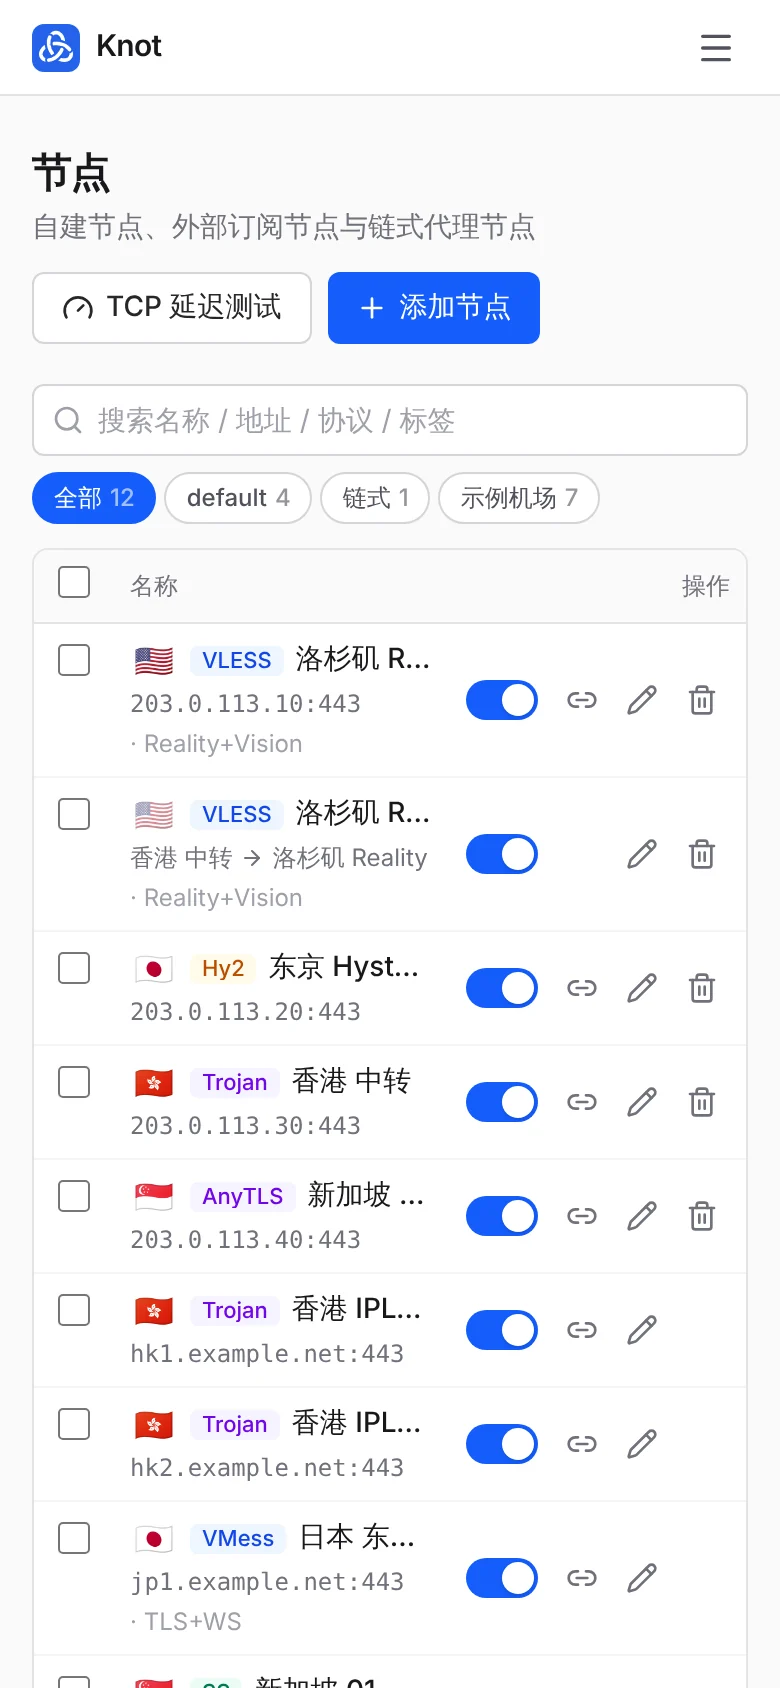
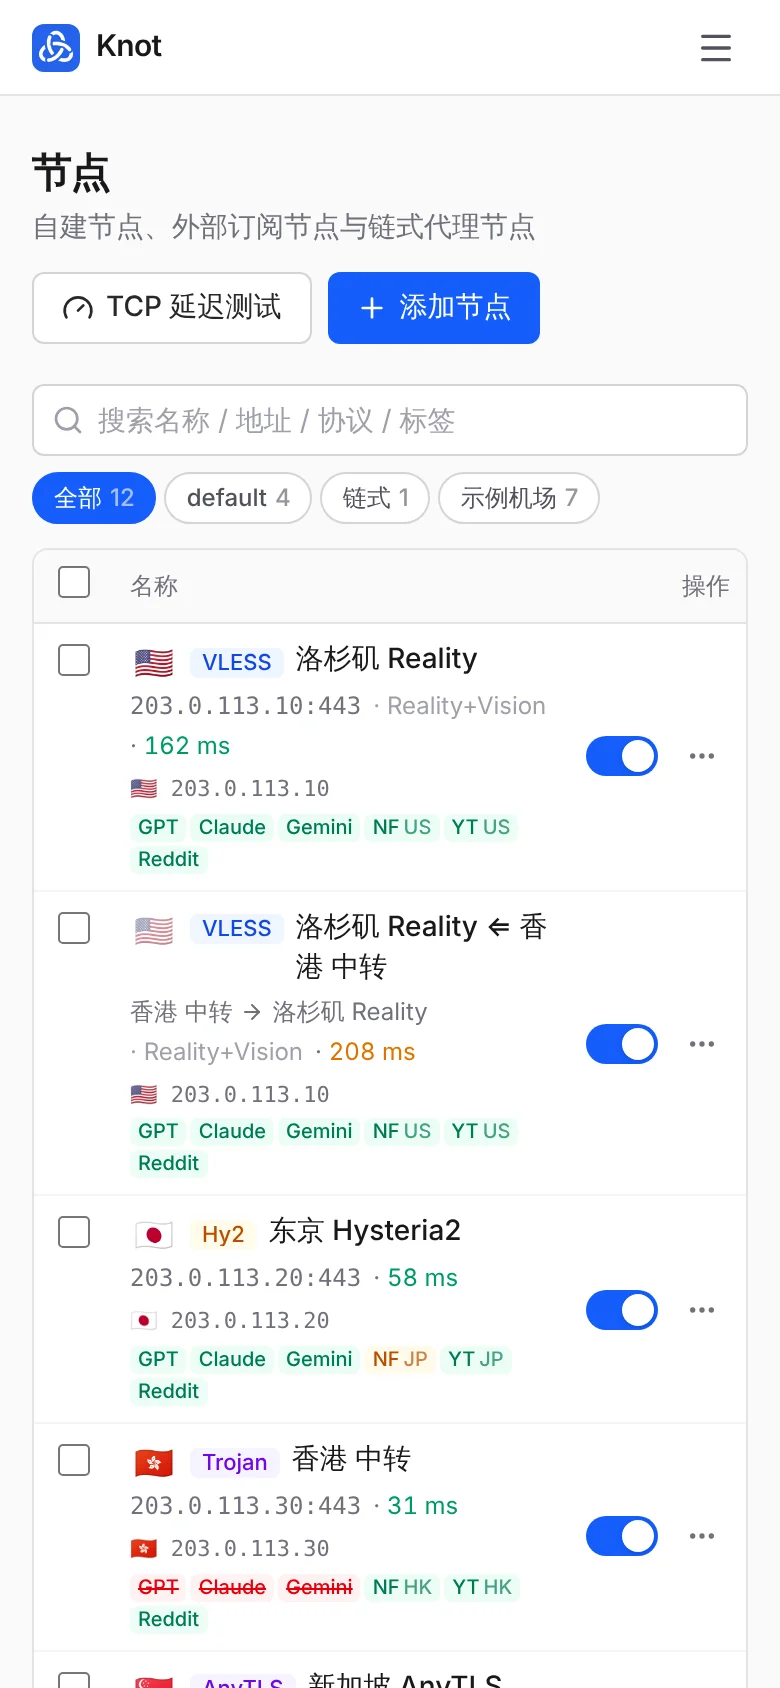
Nodes list: show unlock results at every width, wrap long names, fold actions into a menu
- Below xl the exit / unlock column was hidden, so check results never
  appeared on narrower windows or phones; they now render under the name
- On phones latency moves into the name cell as well
- Long node names wrap to two lines instead of being cut off early
- Copy link, QR code, temporary share, flag and delete move into a "more"
  menu; desktop keeps the switch, chain and edit buttons, phones keep the switch
- Add a portal-based Menu component; IconButton forwards refs

diff --git a/web/src/pages/Nodes.tsx b/web/src/pages/Nodes.tsx
@@ -17,6 +17,7 @@ import {
   Field,
   IconButton,
   Input,
+  Menu,
   Modal,
   PageHeader,
   Select,
@@ -484,51 +485,71 @@ function NodeRow({
   const broken = chain && (!target || !relay)
   const p = target?.proxy || n.proxy
   const tr = transportOf(target || n)
+  const latency =
+    UDP_TYPES.has((relay || n).proxy.type) && n.latency === undefined ? <span className="text-zinc-400" title="UDP 协议需要 mihomo 内核测速">UDP</span> : <Latency n={n} />
   return (
     <tr className={cx('border-b border-zinc-100 last:border-0 hover:bg-zinc-50/70 dark:border-zinc-800/70 dark:hover:bg-zinc-800/30', !n.enabled && 'opacity-50')}>
       <td className="px-3 py-2.5 align-top"><Checkbox checked={checked} onChange={onCheck} /></td>
       <td className="w-full max-w-0 px-2 py-2">
-        <div className="flex min-w-0 items-center gap-1.5">
-          <FlagButton own={n.flag} inherited={target?.flag} onClick={onFlag} />
-          <TypeBadge type={p.type} />
-          <span className="truncate font-medium" title={n.name}>{n.name}</span>
-          {broken && <Badge color="red">失效</Badge>}
+        <div className="flex min-w-0 items-start gap-1.5">
+          <span className="flex shrink-0 items-center gap-1.5 pt-px">
+            <FlagButton own={n.flag} inherited={target?.flag} onClick={onFlag} />
+            <TypeBadge type={p.type} />
+          </span>
+          {/* 名称最多两行，过长再省略；完整名称见悬停提示 */}
+          <span className="line-clamp-2 min-w-0 font-medium break-all" title={n.name}>{n.name}</span>
+          {broken && <Badge color="red" className="shrink-0">失效</Badge>}
         </div>
-        <div className="mt-1 flex min-w-0 flex-wrap items-center gap-1 text-xs text-zinc-500">
+        <div className="mt-1 flex min-w-0 flex-wrap items-center gap-x-1.5 gap-y-1 text-xs text-zinc-500">
           {chain ? (
-            <span className="flex min-w-0 items-center gap-1">
+            <span className="flex min-w-0 max-w-full items-center gap-1">
               <span className="truncate">{relay?.name ?? '（已删除）'}</span>
               <ArrowRight className="size-3 shrink-0" />
               <span className="truncate">{target?.name ?? '（已删除）'}</span>
             </span>
           ) : (
-            <span className="truncate font-mono 2xl:hidden">{p.server}:{p.port}</span>
+            <span className="min-w-0 max-w-full truncate font-mono 2xl:hidden">{p.server}:{p.port}</span>
           )}
           {tr && <span className="whitespace-nowrap text-zinc-400">· {tr}</span>}
+          {/* 手机上没有延迟列，延迟显示在这里 */}
+          <span className="whitespace-nowrap sm:hidden">· {latency}</span>
           {n.tags.map((t) => <Badge key={t} color="blue">{t}</Badge>)}
         </div>
+        {/* 窄屏没有「出口 / 解锁」列，检测结果显示在名称下方 */}
+        {n.check?.unlock && (
+          <div className="mt-1.5 xl:hidden">
+            <CheckCells check={n.check} inline />
+          </div>
+        )}
       </td>
       <td className="hidden px-2 py-2 font-mono text-xs text-zinc-600 2xl:table-cell dark:text-zinc-400">
         <span className="block max-w-56 truncate" title={`${p.server}:${p.port}`}>{p.server}:{p.port}</span>
       </td>
       <td className="hidden whitespace-nowrap px-2 py-2 sm:table-cell">{sourceLabel(n, subMap)}</td>
-      <td className="hidden min-w-44 px-2 py-2 xl:table-cell"><CheckCells check={n.check} /></td>
-      <td className="hidden whitespace-nowrap px-2 py-2 text-right text-xs sm:table-cell">
-        {UDP_TYPES.has((relay || n).proxy.type) && n.latency === undefined ? <span className="text-zinc-400" title="UDP 协议需要 mihomo 内核测速">UDP</span> : <Latency n={n} />}
-      </td>
+      <td className="hidden min-w-68 px-2 py-2 xl:table-cell"><CheckCells check={n.check} /></td>
+      <td className="hidden whitespace-nowrap px-2 py-2 text-right text-xs sm:table-cell">{latency}</td>
       <td className="px-2 py-2">
         <div className="flex items-center justify-end gap-0.5">
           <Switch checked={n.enabled} onChange={onEnabled} title={n.enabled ? '已启用' : '已停用'} />
           <span className="w-1" />
-          {/* 没有的按钮用等宽占位，保证每行的开关和按钮上下对齐 */}
-          {!chain ? <IconButton title="配置链式代理" onClick={onChain}><Link2 className="size-4" /></IconButton> : <span className="size-7 shrink-0" />}
+          {/* 常用操作直接显示（手机上收进菜单），其余放在「更多」里；没有的按钮用等宽占位，保证每行对齐 */}
           <span className="hidden items-center gap-0.5 sm:flex">
-            <IconButton title="复制分享链接" onClick={onCopy} disabled={!n.uri}><Copy className="size-4" /></IconButton>
-            <IconButton title="二维码" onClick={onQr} disabled={!n.uri}><QrCode className="size-4" /></IconButton>
-            <IconButton title="临时分享" onClick={onShare}><Send className="size-4" /></IconButton>
+            {!chain ? <IconButton title="配置链式代理" onClick={onChain}><Link2 className="size-4" /></IconButton> : <span className="size-7 shrink-0" />}
+            <IconButton title="编辑" onClick={onEdit}><Pencil className="size-4" /></IconButton>
           </span>
-          <IconButton title="编辑" onClick={onEdit}><Pencil className="size-4" /></IconButton>
-          {n.source.kind !== 'sub' ? <IconButton title="删除" onClick={onDelete} className="hover:text-red-600"><Trash2 className="size-4" /></IconButton> : <span className="size-7 shrink-0" />}
+          <Menu
+            items={[
+              { label: '编辑', icon: <Pencil />, onClick: onEdit },
+              !chain && { label: '配置链式代理', icon: <Link2 />, onClick: onChain },
+              { label: '设置旗帜', icon: <FlagIcon />, onClick: onFlag },
+              'divider',
+              { label: '复制分享链接', icon: <Copy />, onClick: onCopy, disabled: !n.uri },
+              { label: '二维码', icon: <QrCode />, onClick: onQr, disabled: !n.uri },
+              { label: '临时分享', icon: <Send />, onClick: onShare },
+              n.source.kind !== 'sub' && 'divider',
+              n.source.kind !== 'sub' && { label: '删除', icon: <Trash2 />, onClick: onDelete, danger: true },
+            ]}
+          />
         </div>
       </td>
     </tr>

diff --git a/web/src/components/ui.tsx b/web/src/components/ui.tsx
@@ -13,7 +13,7 @@ import {
   type TextareaHTMLAttributes,
 } from 'react'
 import { createPortal } from 'react-dom'
-import { Check, Copy, Loader2, X } from 'lucide-react'
+import { Check, Copy, Loader2, MoreHorizontal, X } from 'lucide-react'
 import { copyText } from '../lib/api'
 
 export function cx(...c: (string | false | null | undefined)[]) {
@@ -46,14 +46,13 @@ export const Button = forwardRef<
   )
 })
 
-export function IconButton({
-  title,
-  className,
-  children,
-  ...rest
-}: ButtonHTMLAttributes<HTMLButtonElement> & { title: string }) {
+export const IconButton = forwardRef<HTMLButtonElement, ButtonHTMLAttributes<HTMLButtonElement> & { title: string }>(function IconButton(
+  { title, className, children, ...rest },
+  ref,
+) {
   return (
     <button
+      ref={ref}
       title={title}
       aria-label={title}
       className={cx(
@@ -64,6 +63,85 @@ export function IconButton({
     >
       {children}
     </button>
+  )
+})
+
+// ---------------------------------------------------------------- Menu
+
+export type MenuItem = { label: string; icon?: ReactNode; onClick: () => void; disabled?: boolean; danger?: boolean } | 'divider'
+
+/** 「更多」下拉菜单；用 portal 渲染，不会被表格的横向滚动容器裁掉 */
+export function Menu({ items, title = '更多' }: { items: (MenuItem | false | null | undefined)[]; title?: string }) {
+  const btn = useRef<HTMLButtonElement>(null)
+  const panel = useRef<HTMLDivElement>(null)
+  const [pos, setPos] = useState<{ top: number; left: number; up: boolean } | null>(null)
+  const list = items.filter(Boolean) as MenuItem[]
+  const close = () => setPos(null)
+  useEffect(() => {
+    if (!pos) return
+    const onDown = (e: MouseEvent) => {
+      if (!panel.current?.contains(e.target as Node) && !btn.current?.contains(e.target as Node)) close()
+    }
+    const onKey = (e: KeyboardEvent) => e.key === 'Escape' && close()
+    document.addEventListener('mousedown', onDown)
+    document.addEventListener('keydown', onKey)
+    window.addEventListener('scroll', close, true)
+    window.addEventListener('resize', close)
+    return () => {
+      document.removeEventListener('mousedown', onDown)
+      document.removeEventListener('keydown', onKey)
+      window.removeEventListener('scroll', close, true)
+      window.removeEventListener('resize', close)
+    }
+  }, [pos])
+  const toggle = () => {
+    if (pos) return close()
+    const r = btn.current!.getBoundingClientRect()
+    const up = r.bottom + 40 * list.length > window.innerHeight && r.top > window.innerHeight / 2
+    setPos({ top: up ? r.top - 4 : r.bottom + 4, left: Math.max(8, r.right - 176), up })
+  }
+  return (
+    <>
+      <IconButton ref={btn} title={title} onClick={toggle} className={cx(pos && 'bg-zinc-100 text-zinc-900 dark:bg-zinc-800 dark:text-zinc-100')}>
+        <MoreHorizontal className="size-4" />
+      </IconButton>
+      {pos &&
+        createPortal(
+          <div
+            ref={panel}
+            role="menu"
+            style={{ top: pos.top, left: pos.left }}
+            className={cx(
+              'fixed z-50 w-44 rounded-lg border border-zinc-200 bg-white py-1 text-sm shadow-lg dark:border-zinc-800 dark:bg-zinc-900',
+              pos.up && '-translate-y-full',
+            )}
+          >
+            {list.map((it, i) =>
+              it === 'divider' ? (
+                <div key={i} className="my-1 border-t border-zinc-100 dark:border-zinc-800" />
+              ) : (
+                <button
+                  key={i}
+                  role="menuitem"
+                  disabled={it.disabled}
+                  onClick={() => {
+                    close()
+                    it.onClick()
+                  }}
+                  className={cx(
+                    'flex w-full items-center gap-2 px-3 py-1.5 text-left transition-colors disabled:pointer-events-none disabled:opacity-40 [&>svg]:size-4 [&>svg]:shrink-0',
+                    it.danger ? 'text-red-600 hover:bg-red-50 dark:hover:bg-red-950/40' : 'text-zinc-700 hover:bg-zinc-100 dark:text-zinc-200 dark:hover:bg-zinc-800',
+                  )}
+                >
+                  {it.icon}
+                  {it.label}
+                </button>
+              ),
+            )}
+          </div>,
+          document.body,
+        )}
+    </>
   )
 }
 

diff --git a/web/src/components/CheckBadges.tsx b/web/src/components/CheckBadges.tsx
@@ -21,10 +21,10 @@ const STATUS = {
 
 
 /** 节点出口 IP 与解锁状态 */
-export function CheckCells({ check }: { check?: NodeCheck }) {
+export function CheckCells({ check, inline }: { check?: NodeCheck; inline?: boolean }) {
   if (!check?.unlock) return <span className="text-xs text-zinc-400">—</span>
   return (
-    <div className="space-y-1" title={`检测于 ${new Date(check.at).toLocaleString()}`}>
+    <div className={inline ? 'flex flex-wrap items-center gap-x-1.5 gap-y-1' : 'space-y-1'} title={`检测于 ${new Date(check.at).toLocaleString()}`}>
       {check.ip && (
         <div className="font-mono text-[11px] text-zinc-500">
           {flagOf(check.country)} {check.ip}

diff --git a/README.md b/README.md
@@ -123,7 +123,7 @@ server {
 
 1. **节点** → 添加节点：粘贴自建节点的分享链接
 2. **订阅源** → 添加订阅：填写机场订阅链接（可选）
-3. **节点** → 在落地节点上点「链」图标，选择中转节点，生成链式节点（可选）
+3. **节点** → 在落地节点上点「链」图标（手机上在「⋯」菜单里），选择中转节点，生成链式节点（可选）
 4. **规则** → 添加自定义规则（可选）
 5. **订阅输出** → 编辑配置：选择节点、勾选分流模块，点击右上角「保存」→ 复制链接导入客户端
 
